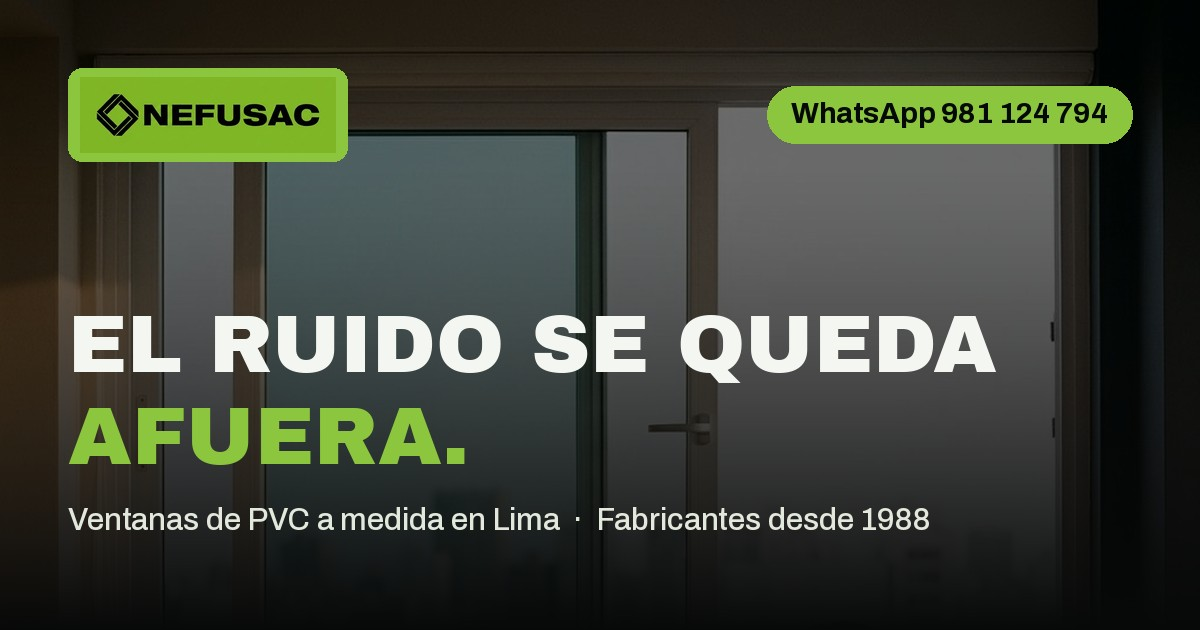
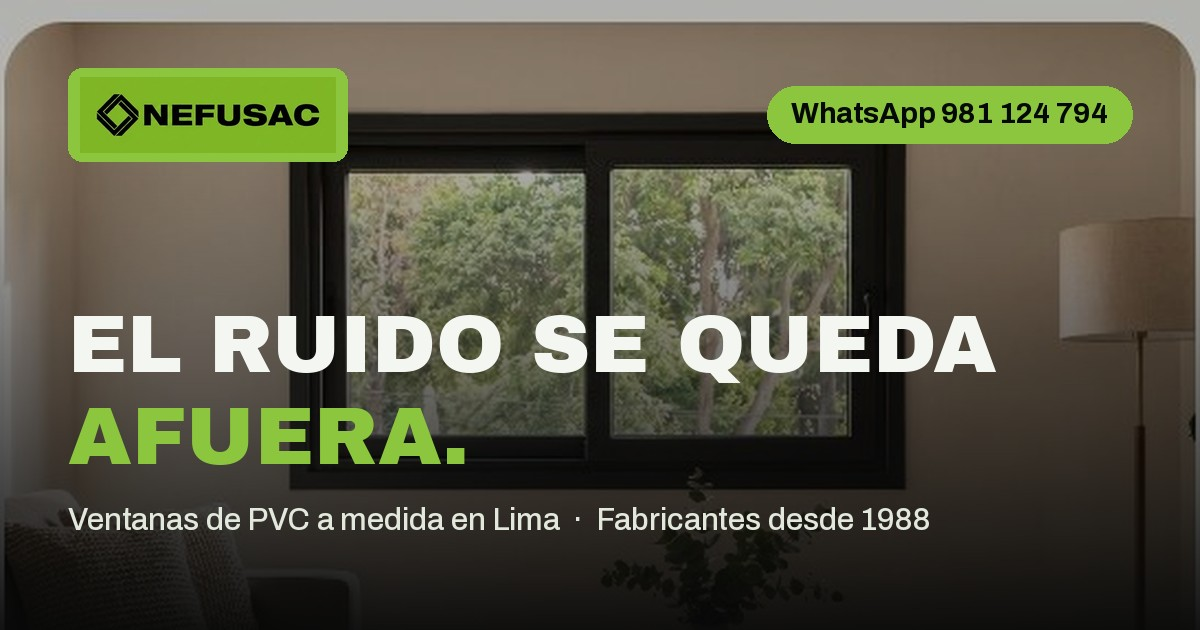
Usar la foto de dia en la tarjeta social
Cambia el fondo de la tarjeta: de la foto de la familia, que es de interior y
apagada, a la sala con corrediza negra y arboles al fondo, mas luminosa y con la
ventana como protagonista.

Esa foto es una de las capturas del render y trae el rotulo impreso en el pie,
asi que el recorte 1.91:1 se ancla ARRIBA y lo deja fuera, sin necesidad de
taparlo.

Se baja el oscurecido de 0.42 a 0.72: la foto se eligio justamente por luminosa
y apagarla anulaba el motivo. La legibilidad del texto se resuelve reforzando el
degradado inferior en vez de apagar toda la imagen.

Limitacion conocida: la fuente mide 547 px de ancho y hay que ampliar 2.19x para
llegar a los 1200 px de la tarjeta, asi que sale algo blanda. A tamano de chat
pasa bien; con el original a resolucion nativa saldria nitida.

105 KB, ratio 1.90:1, por debajo de los 300 KB que pide WhatsApp.

Claude-Session: https://claude.ai/code/session_01BLBhVnUR5hLdqbmXgYESkb

diff --git a/tools/tarjeta-social.py b/tools/tarjeta-social.py
@@ -29,21 +29,26 @@ def fuente(arch, px):
 
 
 def main():
-    # fondo: la foto de la familia, recortada a 1.91:1 y oscurecida para que
-    # el texto encima sea legible sin depender de la zona de la imagen
-    fondo = Image.open(os.path.join(A, "familia-sala-ventana-pvc-nefusac.jpg")).convert("RGB")
-    esc = max(W / fondo.width, H / fondo.height)
-    fondo = fondo.resize((round(fondo.width * esc), round(fondo.height * esc)), Image.LANCZOS)
-    x = (fondo.width - W) // 2
-    y = max(0, int(fondo.height * 0.28) - H // 2)
-    lienzo = fondo.crop((x, y, x + W, y + H))
-    lienzo = ImageEnhance.Brightness(lienzo).enhance(0.42)
+    # Fondo: la sala con corrediza negra, elegida por ser luminosa y de dia.
+    # Se recorta 1.91:1 ANCLADO ARRIBA: esta foto es una de las capturas del
+    # render y trae el rotulo impreso en el pie, asi que tomar la franja
+    # superior lo deja fuera sin tener que taparlo.
+    # Nota de calidad: la fuente mide 547 px de ancho, asi que hay que ampliar
+    # 2.19x para llegar a 1200. Con el original a resolucion nativa la tarjeta
+    # saldria nitida; con esta sale algo blanda, aceptable a tamano de chat.
+    fondo = Image.open(os.path.join(A, "ventana-pvc-corrediza-negra-sala.jpg")).convert("RGB")
+    alto = round(fondo.width / (W / H))
+    lienzo = fondo.crop((0, 0, fondo.width, alto)).resize((W, H), Image.LANCZOS)
+    # menos oscurecido que antes: la foto se eligio por luminosa y bajarla
+    # demasiado anulaba el motivo de elegirla. La legibilidad se resuelve con el
+    # degradado inferior, no apagando toda la imagen.
+    lienzo = ImageEnhance.Brightness(lienzo).enhance(0.72)
 
-    # degradado inferior, para anclar el texto
+    # degradado inferior, mas marcado para compensar el fondo mas claro
     grad = Image.new("L", (1, H))
     for i in range(H):
         t = i / H
-        grad.putpixel((0, i), int(255 * min(1, max(0, (t - 0.25) / 0.75) ** 1.4)))
+        grad.putpixel((0, i), int(240 * min(1, max(0, (t - 0.18) / 0.82) ** 1.15)))
     velo = Image.new("RGB", (W, H), NEGRO)
     lienzo = Image.composite(velo, lienzo, grad.resize((W, H)))
 
